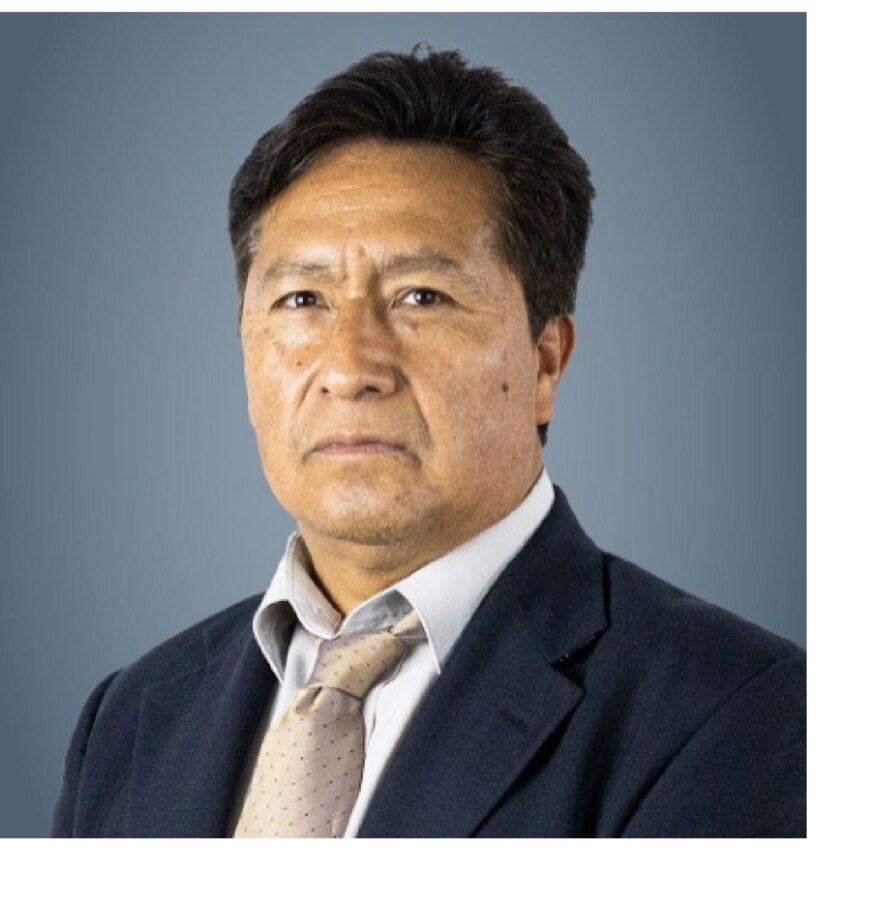
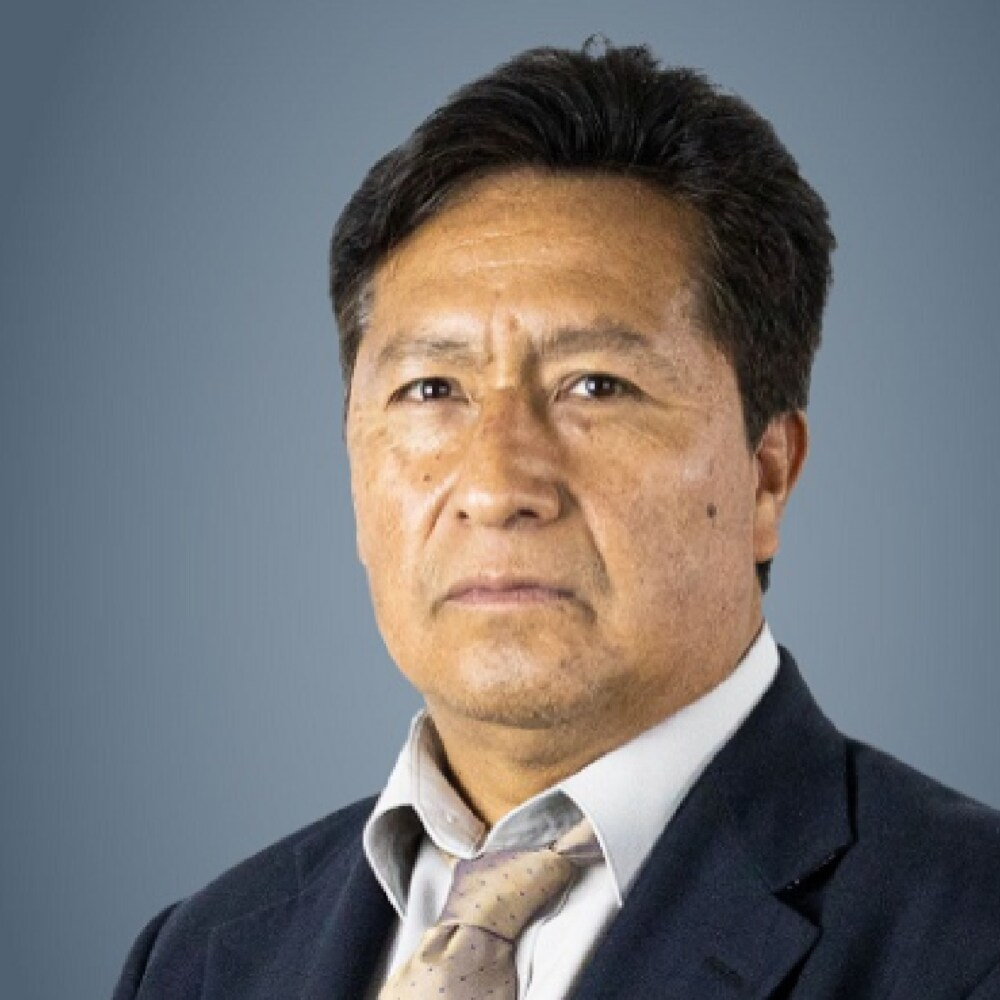
Recrop profile photo; split contact lines
- prof_pic.jpg: tighter, centred head-and-shoulders crop from the CV
  PDF, no frame artefacts.
- about.md more_info: one item per line and a non-breaking phone
  number, so '+52 ...' no longer wraps mid-number under the photo.

diff --git a/_pages/about.md b/_pages/about.md
@@ -11,10 +11,11 @@ profile:
   image: prof_pic.jpg
   image_circular: false
   more_info: >
-    <p>Laboratorio de Física, Unidad Central de Laboratorios</p>
+    <p>Laboratorio de Física</p>
     <p>Instituto de Ciencias Básicas e Ingeniería, UAEH</p>
     <p>Mineral de la Reforma, Hidalgo, Mexico</p>
-    <p><a href="mailto:fernando@uaeh.edu.mx">fernando@uaeh.edu.mx</a> · +52 (771) 71 72 000 ext. 6162</p>
+    <p><a href="mailto:fernando@uaeh.edu.mx">fernando@uaeh.edu.mx</a></p>
+    <p>Tel.&nbsp;+52&nbsp;(771)&nbsp;71&nbsp;72&nbsp;000&nbsp;ext.&nbsp;6162</p>
 
 news: true
 selected_papers: true
